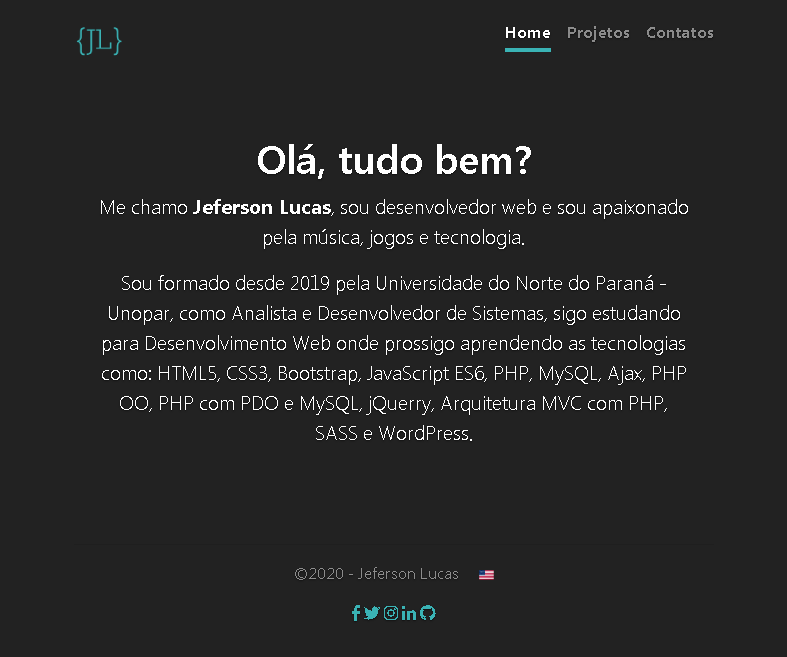
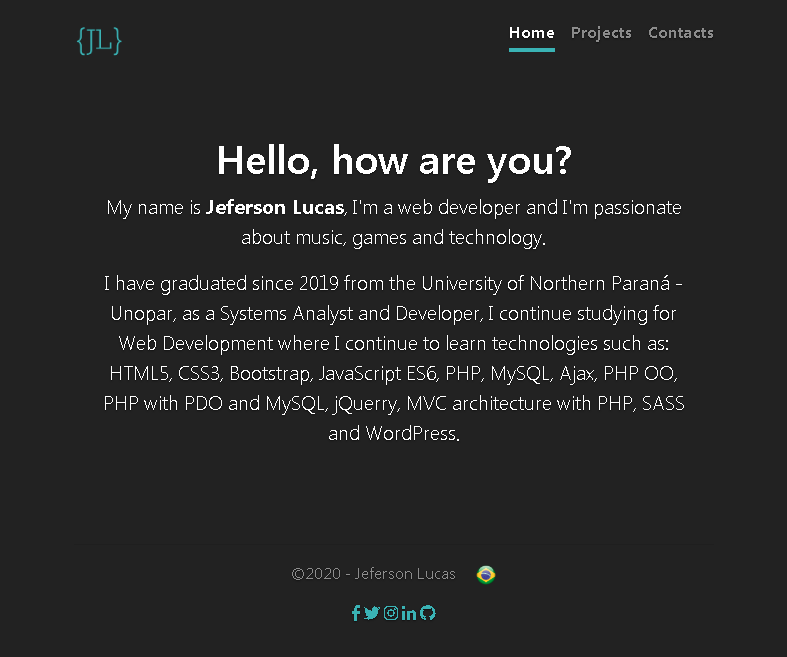
Added supports for portuguese Brazil #2

diff --git a/translate/pt-br/index.html b/translate/pt-br/index.html
@@ -1,17 +1,17 @@
 <!DOCTYPE html>
-<html lang="en">
+<html lang="pt-bt">
 <head>
 	<meta charset="utf-8">
 	<meta name="viewport" content="width=device-width, initial-scale=1, shrink-to-fit=no">
 	<meta name="description" content="">
-    <link rel="shortcut icon" href="./assets/img/favicon/favicon-transparent.ico">
+    <link rel="shortcut icon" href="../../assets/img/favicon/favicon-transparent.ico">
 	<meta name="author" content="Jeferson Lucas">
 	<title>Home · Jeferson Lucas</title>
 
 	<!-- Bootstrap core CSS -->
-	<link href="bootstrap/css/bootstrap.css" rel="stylesheet">
+	<link href="../../bootstrap/css/bootstrap.css" rel="stylesheet">
 	<!-- Custom styles for this template -->
-	<link href="assets/css/style.css" rel="stylesheet" >
+	<link href="../../assets/css/style.css" rel="stylesheet" >
 	<!-- Font Awesome -->
 	<link rel="stylesheet" href="https://use.fontawesome.com/releases/v5.2.0/css/all.css" integrity="sha384-hWVjflwFxL6sNzntih27bfxkr27PmbbK/iSvJ+a4+0owXq79v+lsFkW54bOGbiDQ" crossorigin="anonymous">
 
@@ -22,31 +22,31 @@
 			<div class="inner">
 				<h3 class="masthead-brand">
 					<a href="#">
-						<img autor="Jeferson Lucas" src="assets/img/logo-transparent.png" width="50" height="50">
+						<img autor="Jeferson Lucas" src="../../assets/img/logo-transparent.png" width="50" height="50">
 					</a>
 				</h3>
 				<nav class="nav nav-masthead justify-content-center mb-3">
 					<a class="nav-link active" href="#">Home</a>
-					<a class="nav-link" href="#">Projects</a>
-					<a class="nav-link" href="#">Contacts</a>
+					<a class="nav-link" href="#">Projetos</a>
+					<a class="nav-link" href="#">Contatos</a>
 				</nav>
 			</div>
 		</header>
 
 		<main role="main" class="inner cover">
-			<h1 class="cover-heading">Hello, how are you?</h1>
-			<p class="lead">My name is <strong class="font-weight-bold">Jeferson Lucas</strong>, I'm a web developer and I'm passionate about music, games and technology.</p>
-			<p class="lead">I have graduated since 2019 from the University of Northern Paraná - Unopar, as a Systems Analyst and Developer, I continue studying for Web Development where I continue to learn technologies such as: HTML5, CSS3, Bootstrap, JavaScript ES6, PHP, MySQL, Ajax, PHP OO, PHP with PDO and MySQL, jQuerry, MVC architecture with PHP, SASS and WordPress.</p>
+			<h1 class="cover-heading">Olá, tudo bem?</h1>
+			<p class="lead">Me chamo <strong class="font-weight-bold">Jeferson Lucas</strong>, sou desenvolvedor web e sou apaixonado pela música, jogos e tecnologia.</p>
+			<p class="lead">Sou formado desde 2019 pela Universidade do Norte do Paraná - Unopar, como Analista e Desenvolvedor de Sistemas, sigo estudando para Desenvolvimento Web onde prossigo aprendendo as tecnologias como: HTML5, CSS3, Bootstrap, JavaScript ES6, PHP, MySQL, Ajax, PHP OO, PHP com PDO e MySQL, jQuerry, Arquitetura MVC com PHP, SASS e WordPress.</p>
 		</main>
 		
 		<footer class="mastfoot mt-auto">
 			<hr class="text-white">
 			<div class="inner">
 				<p class="user-select-none">&copy;2020 - Jeferson Lucas
-					<a class="ml-3" href="https://jefersonlucas.github.io/my-portfolio/translate/pt-br/">
-						<img autor="Ylanite" src="assets/img/brazil-flag.png" width="20" height="20" alt="Brazil flag">
+					<a class="ml-3" href="https://jefersonlucas.github.io/my-portfolio/">
+						<img src="../../assets/img/america-flag.png" width="20" height="20" alt="America flag">
 					</a>
-				</p>
+					</p>
 				<p>
 					<a href="https://www.facebook.com/profile.php?id=100004317732004" target="_blank">
 						<i class="fab fa-facebook-f"></i>

diff --git a/README.md b/README.md
@@ -10,28 +10,32 @@
 
 <p align="center">
 	<img src="docs/capture.png" width="450">
-	<img src="docs/capture-mobile.png" width="450">
 </p>
 
-## Construído com
+## Translations
+
+* [Original](https://github.com/JefersonLucas/my-portfolio)
+* [Português - BR](https://github.com/JefersonLucas/my-portfolio/tree/master/translations/pt-br)
+
+## Built with
 
 * [Bootstrap](https://getbootstrap.com/) - Framework front end.
-* [Font Awesome](https://fontawesome.com/) - Framework de pacote de ícones.
+* [Font Awesome](https://fontawesome.com/) - Icon pack Framework.
 
-## Autores
+## Authors
 
-* [@JefersonLucas](https://github.com/JefersonLucas) - _Idealizador_.
+* [@JefersonLucas](https://github.com/JefersonLucas) - _Creator_.
 
-Veja também a lista completa de [contribuidores](https://github.com/JefersonLucas/my-portfolio/contributors) que participaram deste projeto.
+See also the complete list of [contributors](https://github.com/JefersonLucas/my-portfolio/contributors) who participated in this project.
 
-## Licença
+## License
 
-Este projeto está licenciado sob a licença MIT - consulte o arquivo [LICENSE.md](https://github.com/JefersonLucas/my-portfolio/blob/master/LICENSE) para obter detalhes.
+This project is licensed under the license MIT - see the file [LICENSE.md](https://github.com/JefersonLucas/my-portfolio/blob/master/LICENSE) for details.
 
-## Agradecimentos
+## Thanks
 
-Meus sinceros agradecimentos:
+My sincere thanks:
 
-* A Deus.
-* Contribuintes do projeto.
-* Todos que visitam o projeto e deixa uma estrela como reconhecimento.
+* God.
+* Project contributors.
+* Everyone who visits the project and leaves a star as recognition.

diff --git a/translate/pt-br/README.md b/translate/pt-br/README.md
@@ -1,0 +1,41 @@
+<p align="center">
+	<img src="assets/img/logo.png" width="150">
+	<h1 align="center">Meu portfólio</h1>
+	<p align="center">Meu simples portfólio</p>
+	<p align="center">
+    	<img src="https://img.shields.io/badge/Jeferson%20Lucas-My%20portfolio-blue" alt="Portfolio">
+    	<img src="https://img.shields.io/badge/License-MIT-green" alt="License">
+  	</p>
+</p>
+
+<p align="center">
+	<img src="docs/capture.png" width="450">
+</p>
+
+## Traduções
+
+* [Original](https://github.com/JefersonLucas/my-portfolio)
+* [Português - BR](https://github.com/JefersonLucas/my-portfolio/tree/master/translations/pt-br)
+
+## Construído com
+
+* [Bootstrap](https://getbootstrap.com/) - Framework front end.
+* [Font Awesome](https://fontawesome.com/) - Framework de pacote de ícones.
+
+## Autores
+
+* [@JefersonLucas](https://github.com/JefersonLucas) - _Idealizador_.
+
+Veja também a lista completa de [contribuidores](https://github.com/JefersonLucas/my-portfolio/contributors) que participaram deste projeto.
+
+## Licença
+
+Este projeto está licenciado sob a licença MIT - consulte o arquivo [LICENSE.md](https://github.com/JefersonLucas/my-portfolio/blob/master/LICENSE) para obter detalhes.
+
+## Agradecimentos
+
+Meus sinceros agradecimentos:
+
+* A Deus.
+* Contribuintes do projeto.
+* Todos que visitam o projeto e deixa uma estrela como reconhecimento.
